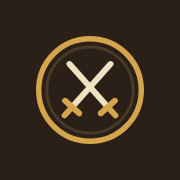
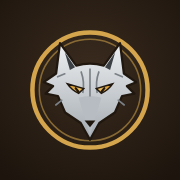
Icône et emblème : médaillon du loup
Le médaillon de l'École du Loup remplace l'ancienne icône, sur l'écran
d'accueil du téléphone comme dans l'application (barre, écran d'accueil).

Claude-Session: https://claude.ai/code/session_01UeKmjceLxdvzugm4pznYe2

Changed region(s): [[0.1667, 0.1667, 0.8333, 0.8333]]

diff --git a/sw.js b/sw.js
@@ -1,6 +1,6 @@
 // Généré par scripts/build.mjs : ne pas modifier à la main.
 // Le compagnon s'ouvre instantanément depuis le cache, même hors ligne, puis se met à jour en arrière-plan.
-const VERSION = "compagnon-6556b9713d";
+const VERSION = "compagnon-60b65e70f8";
 const ASSETS = ["./","manifest.webmanifest","icons/icon.svg","icons/icon-192.png","icons/icon-512.png","icons/apple-touch-icon.png","icons/badge-96.png","img/blanche-neige.webp","img/belle-bete.webp","img/herisson.webp","img/sirene.webp","img/reine-neiges.webp","img/djinn.webp","img/baba-yaga.webp","img/leshy.webp","img/kikimora.webp","img/sirin.webp"];
 const EXTERNES = ["fonts.googleapis.com", "fonts.gstatic.com", "cdnjs.cloudflare.com"];
 const ANECDOTES = ["Le nom elfique de Ciri, Zireael, signifie « hirondelle », comme la potion de soin des sorceleurs.","Geralt s'est choisi lui-même le nom « de Riv », pour inspirer confiance à ses clients.","Toutes les juments de Geralt s'appellent Ablette, de livre en livre.","Triss est surnommée « la Quatorzième de la Colline » : on l'a crue morte à la bataille de Sodden.","Coën fait partie des sorceleurs qui ont entraîné Ciri à Kaer Morhen, mais on ne le croise pas dans TW3.","Zoltan Chivay vient du « Baptême du feu » : dans TW3, il est l'un des alliés les plus fidèles de Geralt.","Le journal de quêtes de TW3 est rédigé du point de vue de Jaskier.","Le nom complet d'Emhyr signifie « la Flamme Blanche qui danse sur les tumulus de ses ennemis ».","La deuxième quête de TW3, juste après le rêve de Kaer Morhen, s'intitule « Lilas et groseilles à maquereau » : c'est le parfum de Yennefer.","Sapkowski a publié la première nouvelle du Sorceleur en 1986, dans le magazine polonais Fantastyka.","Dans « Les Limites du possible », Geralt rappelle qu'il ne tue pas les dragons.","Dans les légendes du Nord, l'apparition de la Chasse sauvage annonce la guerre.","Le Hérisson d'Erlenwald, chevalier maudit du « Dernier Vœu », cache un secret que la saga ne dévoile qu'à la toute fin.","Regis distille une eau-de-vie de mandragore dont ses compagnons de route se souviennent longtemps.","« La Croisée des corbeaux » raconte les débuts de Geralt à dix-huit ans, au sortir de Kaer Morhen.","Les sorceleurs recrutaient parfois leurs apprentis grâce à la Loi de la Surprise.","Le titre polonais, « Wiedźmin », est un mot forgé par Sapkowski à partir de « wiedźma », la sorcière.","« Le Moindre Mal » détourne Blanche-Neige : Renfri, princesse chassée par sa belle-mère, a vécu un temps parmi sept gnomes.","« Un grain de vérité » revisite La Belle et la Bête, et « Une once d'abnégation » La Petite Sirène.","Gwynbleidd, le nom elfe de Geralt, signifie « Loup Blanc ».","Le gwynt, mini-jeu de cartes de TW3, a eu droit à ses propres jeux : Gwent et Thronebreaker."];

diff --git a/index.html b/index.html
@@ -12,7 +12,7 @@
 <meta name="apple-mobile-web-app-title" content="Sorceleur">
 <meta name="apple-mobile-web-app-status-bar-style" content="default">
 <meta name="format-detection" content="telephone=no">
-<meta name="compagnon-version" content="6556b9713d">
+<meta name="compagnon-version" content="60b65e70f8">
 <meta property="og:type" content="website">
 <meta property="og:locale" content="fr_FR">
 <meta property="og:title" content="Compagnon du Sorceleur">
@@ -2613,7 +2613,7 @@ const ICO={
  pause:svg('<path d="M8 5v14M16 5v14"/>'),play:svg('<path d="M7 5l12 7-12 7z"/>'),stop:svg('<rect x="6" y="6" width="12" height="12" rx="1.5"/>'),
  puce:svg('<rect x="7" y="7" width="10" height="10" rx="2"/><path d="M10 3v4M14 3v4M10 17v4M14 17v4M3 10h4M3 14h4M17 10h4M17 14h4"/>')
 };
-const EMBLEME='<svg viewBox="0 0 48 48" aria-hidden="true"><circle cx="24" cy="24" r="22" fill="none" stroke="var(--ac)" stroke-width="2"/><circle cx="24" cy="24" r="18.5" fill="none" stroke="var(--ln)" stroke-width="1"/><g fill="none" stroke-linecap="round" stroke-width="2.2"><path d="M16.5 31.2L33 13M31.5 31.2L15 13" stroke="currentColor"/><path d="M13.5 28.5l6 5.4M34.5 28.5l-6 5.4M16.5 31.2l-3.3 3.6M31.5 31.2l3.3 3.6" stroke="var(--ac)"/></g></svg>';
+const EMBLEME='<svg viewBox="0 0 48 48" aria-hidden="true"><circle cx="24" cy="24" r="22" fill="none" stroke="var(--ac)" stroke-width="2"/><circle cx="24" cy="24" r="19.4" fill="none" stroke="var(--ac)" stroke-width=".7" opacity=".6"/><g transform="translate(24 24.4) scale(1.06) translate(-24 -24)"><path d="M14 8.4L19.4 15.9Q24 14.5 28.6 15.9L34 8.4L35.3 18.5L39.4 21.4L36.3 22.7L38.8 25.2L34.7 26L32.3 31.5L27.1 35L24 40.6L20.9 35L15.7 31.5L13.3 26L9.2 25.2L11.7 22.7L8.6 21.4L12.7 18.5Z" fill="currentColor"/><path d="M15.6 11.4L19 16.4L17.3 17.3ZM32.4 11.4L29 16.4L30.7 17.3ZM16.4 21.9L21.9 23.5L20.2 25.1Q17.8 24 16.4 21.9ZM31.6 21.9L26.1 23.5L27.8 25.1Q30.2 24 31.6 21.9ZM22.2 34.2H25.8L24 36.4Z" fill="var(--bg)"/><path d="M24 16.8V26.2M21 17.8Q22.3 21.4 21.6 25M27 17.8Q25.7 21.4 26.4 25" fill="none" stroke="var(--bg)" stroke-width=".7" opacity=".55"/></g></svg>';
 const TABS=[["partie","Partie"],["codex","Codex"],["carte","Carte"],["bestiaire","Bestiaire"],["livres","Livres"]];
 const TABK=TABS.map(t=>t[0]);
 const TITRES={partie:"Ma partie",codex:"Codex",carte:"Carte du Continent",bestiaire:"Bestiaire",livres:"Livres",quiz:"Quiz",demander:"Demander",reglages:"Réglages",recherche:"Recherche",lignee:"Lignée de Ciri"};

diff --git a/artifact/compagnon.html b/artifact/compagnon.html
@@ -2583,7 +2583,7 @@ const ICO={
  pause:svg('<path d="M8 5v14M16 5v14"/>'),play:svg('<path d="M7 5l12 7-12 7z"/>'),stop:svg('<rect x="6" y="6" width="12" height="12" rx="1.5"/>'),
  puce:svg('<rect x="7" y="7" width="10" height="10" rx="2"/><path d="M10 3v4M14 3v4M10 17v4M14 17v4M3 10h4M3 14h4M17 10h4M17 14h4"/>')
 };
-const EMBLEME='<svg viewBox="0 0 48 48" aria-hidden="true"><circle cx="24" cy="24" r="22" fill="none" stroke="var(--ac)" stroke-width="2"/><circle cx="24" cy="24" r="18.5" fill="none" stroke="var(--ln)" stroke-width="1"/><g fill="none" stroke-linecap="round" stroke-width="2.2"><path d="M16.5 31.2L33 13M31.5 31.2L15 13" stroke="currentColor"/><path d="M13.5 28.5l6 5.4M34.5 28.5l-6 5.4M16.5 31.2l-3.3 3.6M31.5 31.2l3.3 3.6" stroke="var(--ac)"/></g></svg>';
+const EMBLEME='<svg viewBox="0 0 48 48" aria-hidden="true"><circle cx="24" cy="24" r="22" fill="none" stroke="var(--ac)" stroke-width="2"/><circle cx="24" cy="24" r="19.4" fill="none" stroke="var(--ac)" stroke-width=".7" opacity=".6"/><g transform="translate(24 24.4) scale(1.06) translate(-24 -24)"><path d="M14 8.4L19.4 15.9Q24 14.5 28.6 15.9L34 8.4L35.3 18.5L39.4 21.4L36.3 22.7L38.8 25.2L34.7 26L32.3 31.5L27.1 35L24 40.6L20.9 35L15.7 31.5L13.3 26L9.2 25.2L11.7 22.7L8.6 21.4L12.7 18.5Z" fill="currentColor"/><path d="M15.6 11.4L19 16.4L17.3 17.3ZM32.4 11.4L29 16.4L30.7 17.3ZM16.4 21.9L21.9 23.5L20.2 25.1Q17.8 24 16.4 21.9ZM31.6 21.9L26.1 23.5L27.8 25.1Q30.2 24 31.6 21.9ZM22.2 34.2H25.8L24 36.4Z" fill="var(--bg)"/><path d="M24 16.8V26.2M21 17.8Q22.3 21.4 21.6 25M27 17.8Q25.7 21.4 26.4 25" fill="none" stroke="var(--bg)" stroke-width=".7" opacity=".55"/></g></svg>';
 const TABS=[["partie","Partie"],["codex","Codex"],["carte","Carte"],["bestiaire","Bestiaire"],["livres","Livres"]];
 const TABK=TABS.map(t=>t[0]);
 const TITRES={partie:"Ma partie",codex:"Codex",carte:"Carte du Continent",bestiaire:"Bestiaire",livres:"Livres",quiz:"Quiz",demander:"Demander",reglages:"Réglages",recherche:"Recherche",lignee:"Lignée de Ciri"};

diff --git a/src/app.js b/src/app.js
@@ -41,7 +41,7 @@ const ICO={
  pause:svg('<path d="M8 5v14M16 5v14"/>'),play:svg('<path d="M7 5l12 7-12 7z"/>'),stop:svg('<rect x="6" y="6" width="12" height="12" rx="1.5"/>'),
  puce:svg('<rect x="7" y="7" width="10" height="10" rx="2"/><path d="M10 3v4M14 3v4M10 17v4M14 17v4M3 10h4M3 14h4M17 10h4M17 14h4"/>')
 };
-const EMBLEME='<svg viewBox="0 0 48 48" aria-hidden="true"><circle cx="24" cy="24" r="22" fill="none" stroke="var(--ac)" stroke-width="2"/><circle cx="24" cy="24" r="18.5" fill="none" stroke="var(--ln)" stroke-width="1"/><g fill="none" stroke-linecap="round" stroke-width="2.2"><path d="M16.5 31.2L33 13M31.5 31.2L15 13" stroke="currentColor"/><path d="M13.5 28.5l6 5.4M34.5 28.5l-6 5.4M16.5 31.2l-3.3 3.6M31.5 31.2l3.3 3.6" stroke="var(--ac)"/></g></svg>';
+const EMBLEME='<svg viewBox="0 0 48 48" aria-hidden="true"><circle cx="24" cy="24" r="22" fill="none" stroke="var(--ac)" stroke-width="2"/><circle cx="24" cy="24" r="19.4" fill="none" stroke="var(--ac)" stroke-width=".7" opacity=".6"/><g transform="translate(24 24.4) scale(1.06) translate(-24 -24)"><path d="M14 8.4L19.4 15.9Q24 14.5 28.6 15.9L34 8.4L35.3 18.5L39.4 21.4L36.3 22.7L38.8 25.2L34.7 26L32.3 31.5L27.1 35L24 40.6L20.9 35L15.7 31.5L13.3 26L9.2 25.2L11.7 22.7L8.6 21.4L12.7 18.5Z" fill="currentColor"/><path d="M15.6 11.4L19 16.4L17.3 17.3ZM32.4 11.4L29 16.4L30.7 17.3ZM16.4 21.9L21.9 23.5L20.2 25.1Q17.8 24 16.4 21.9ZM31.6 21.9L26.1 23.5L27.8 25.1Q30.2 24 31.6 21.9ZM22.2 34.2H25.8L24 36.4Z" fill="var(--bg)"/><path d="M24 16.8V26.2M21 17.8Q22.3 21.4 21.6 25M27 17.8Q25.7 21.4 26.4 25" fill="none" stroke="var(--bg)" stroke-width=".7" opacity=".55"/></g></svg>';
 const TABS=[["partie","Partie"],["codex","Codex"],["carte","Carte"],["bestiaire","Bestiaire"],["livres","Livres"]];
 const TABK=TABS.map(t=>t[0]);
 const TITRES={partie:"Ma partie",codex:"Codex",carte:"Carte du Continent",bestiaire:"Bestiaire",livres:"Livres",quiz:"Quiz",demander:"Demander",reglages:"Réglages",recherche:"Recherche",lignee:"Lignée de Ciri"};
